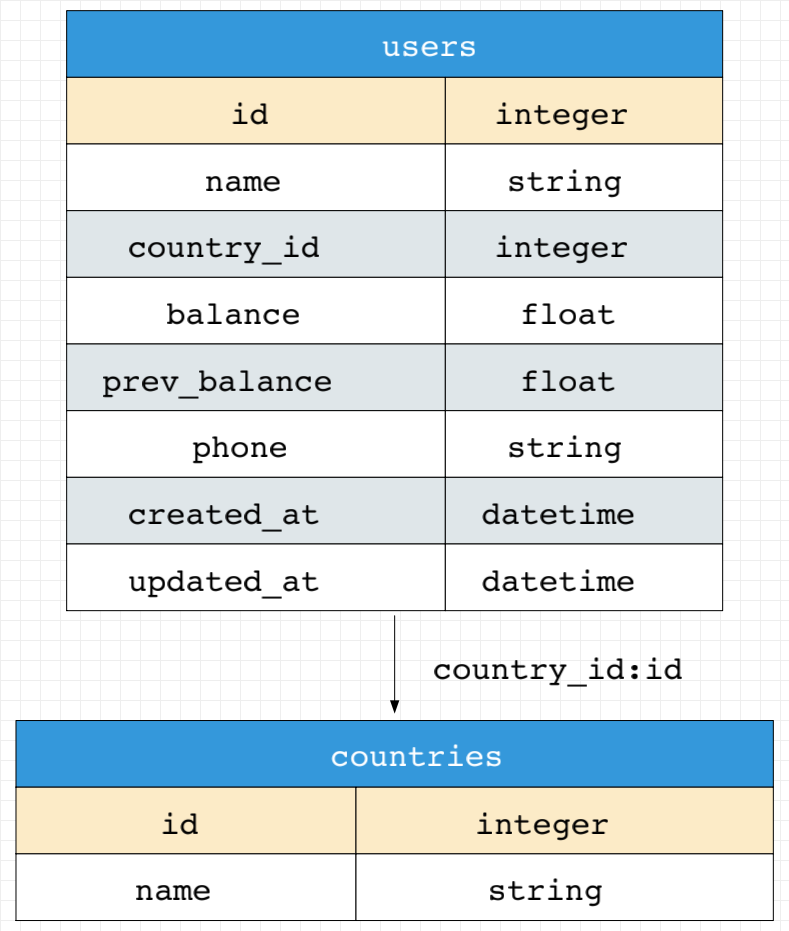
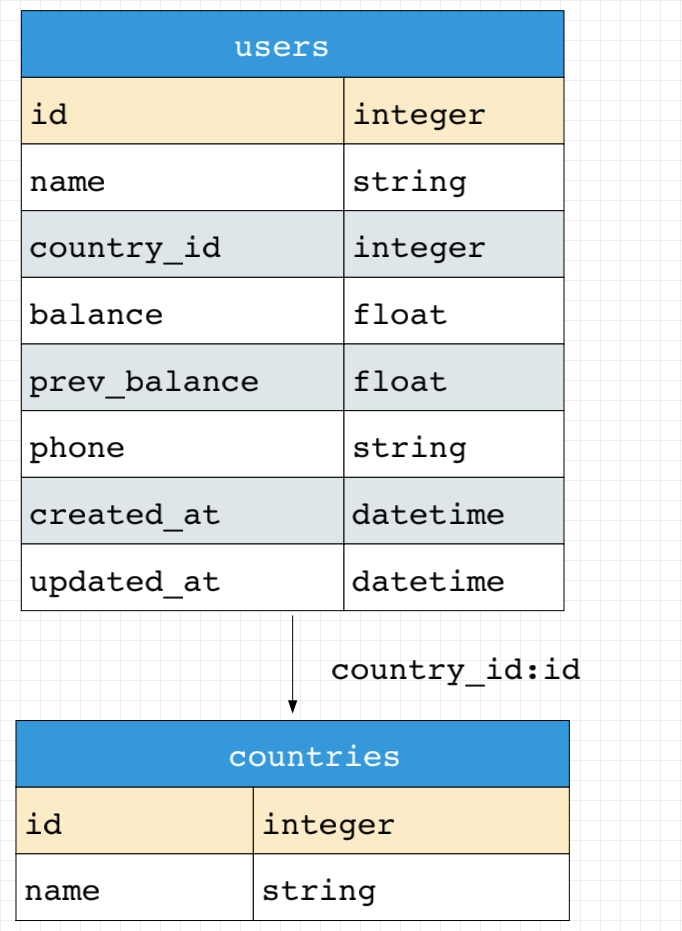
chore(diagram): move column to left

diff --git a/templates/diagram/table.html b/templates/diagram/table.html
@@ -1,20 +1,17 @@
-<TABLE BORDER="0" CELLBORDER="1" BORDERCOLOR="red" CELLSPACING="0" CELLPADDING="5">
-    <TH>
-        <TD colspan="2" width="100px;" bgcolor="{{ style.Table.Name.BackgroundColor }}" ALIGN="CENTER">
-            <font color="{{ style.Table.Name.TextColor }}">{{ table.Name }}</font>
-        </TD>
+<TABLE BORDER="0" CELLBORDER="1" CELLSPACING="0" CELLPADDING="5">
+    <TH width="100%;">
+        <TD colspan="2" bgcolor="{{ style.Table.Name.BackgroundColor }}" ALIGN="CENTER"><font color="{{ style.Table.Name.TextColor }}" ALIGN="CENTER">{{ table.Name }}</font></TD>
     </TH>
     {% for col in table.Columns %}
+    {% set column_bg = "#ffffff" %}
+    {% if col.IsPrimaryKey %}
+    {% set column_bg = "#fcebc7" %}
+    {% elseif (loop.index - table.PrimaryKeyColumnsCount) % 2 == 0 %}
+    {% set column_bg = "#dfe6e9" %}
+    {% endif %}
     <TR width="100%;">
-        {% set column_bg = "#ffffff" %}
-        {% if col.IsPrimaryKey %}
-        {% set column_bg = "#fcebc7" %}
-        {% elseif (loop.index - table.PrimaryKeyColumnsCount) % 2 == 0 %}
-        {% set column_bg = "#dfe6e9" %}
-        {% endif %}
-
-        <TD bgcolor="{{ column_bg }}" ALIGN="CENTER">{{ col.Name }}</TD>
-        <TD bgcolor="{{ column_bg }}" ALIGN="CENTER">{{ col.Type }}</TD>
+        <TD bgcolor="{{ column_bg }}" ALIGN="LEFT">{{ col.Name }}</TD>
+        <TD bgcolor="{{ column_bg }}" ALIGN="LEFT">{{ col.Type }}</TD>
     </TR>
     {% endfor %}
 </TABLE>
